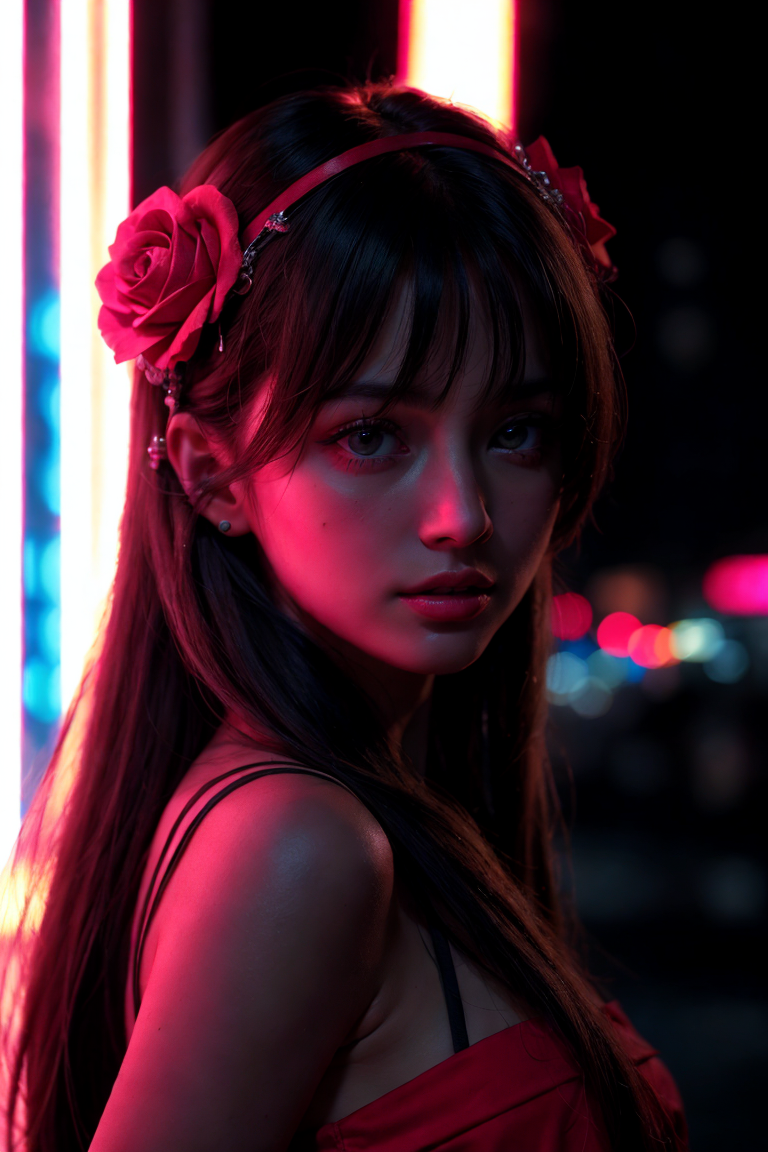
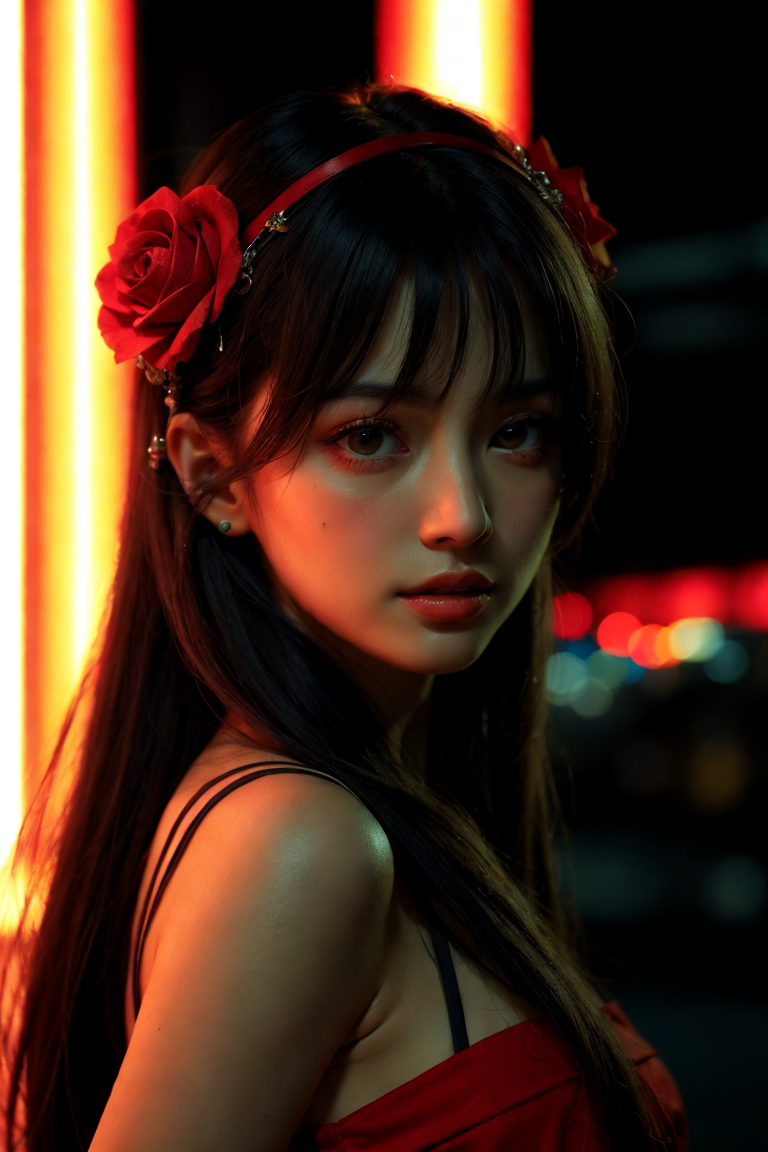
i

diff --git a/db_examples.py b/db_examples.py
@@ -19,7 +19,7 @@ foreground_conditioned_examples = [
     ],
     [
         "imgs/i3.png",
-        "beautiful woman, detailed face, neon light, city",
+        "beautiful woman, detailed face, neon, Wong Kar-wai, warm",
         "Left Light",
         512,
         768,

diff --git a/gradio_demo.py b/gradio_demo.py
@@ -351,6 +351,7 @@ quick_prompts = [
     'shadow from window',
     'soft studio lighting',
     'home atmosphere, cozy bedroom illumination',
+    'neon, Wong Kar-wai, warm'
 ]
 quick_prompts = [[x] for x in quick_prompts]
 
